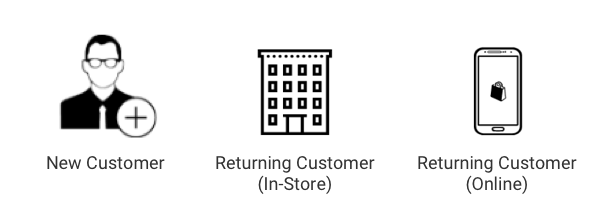
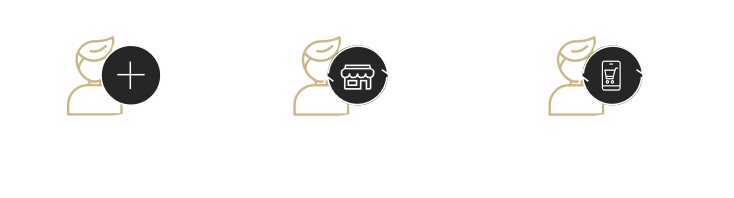
Added personas img in armani project

diff --git a/armani.html b/armani.html
@@ -105,10 +105,12 @@
 <h4>Personas &amp; Customer Journeys</h4>
  
   <section class="projects-sections">
-    <p>Three types of customers were identified as follows&#58;</p>
-    <img src="images/Armani-Personas.png" alt="Personas for Armani" width="400">
+    <p>Three types of customers (shown below) were identified and customer journeys were mapped for these personas  &#58;</p>
+    <!-- <img src="images/Armani-Personas.png" alt="Personas for Armani">-->
+    <div class="armani-personas">
+      
+    </div>
     
-    <p>Customer journeys were mapped for all 3 personas. Below is an example of the journey for a returning customer who prefers to shop online&#58;</p>
     <img src="images/Armani-journeymap.png" alt="Personas for Armani" width="500">
   </section>
    

diff --git a/css/style.css b/css/style.css
@@ -462,6 +462,25 @@ nav {
     justify-content: space-between;
   }
 }
+
+.armani-personas {
+   width: 100%;
+  height: 200px;
+  background: url(../../images/Armani-Personas.png);
+  background-size: contain;
+  background-position: center;
+  background-repeat: no-repeat;
+  margin: 1rem 0;  
+  background-color: #262626;
+}
+
+
+
+@media (max-width: 768px) {
+  .armani-personas {
+    height: 100px;
+  }
+}
   
 /* oakley */
 
